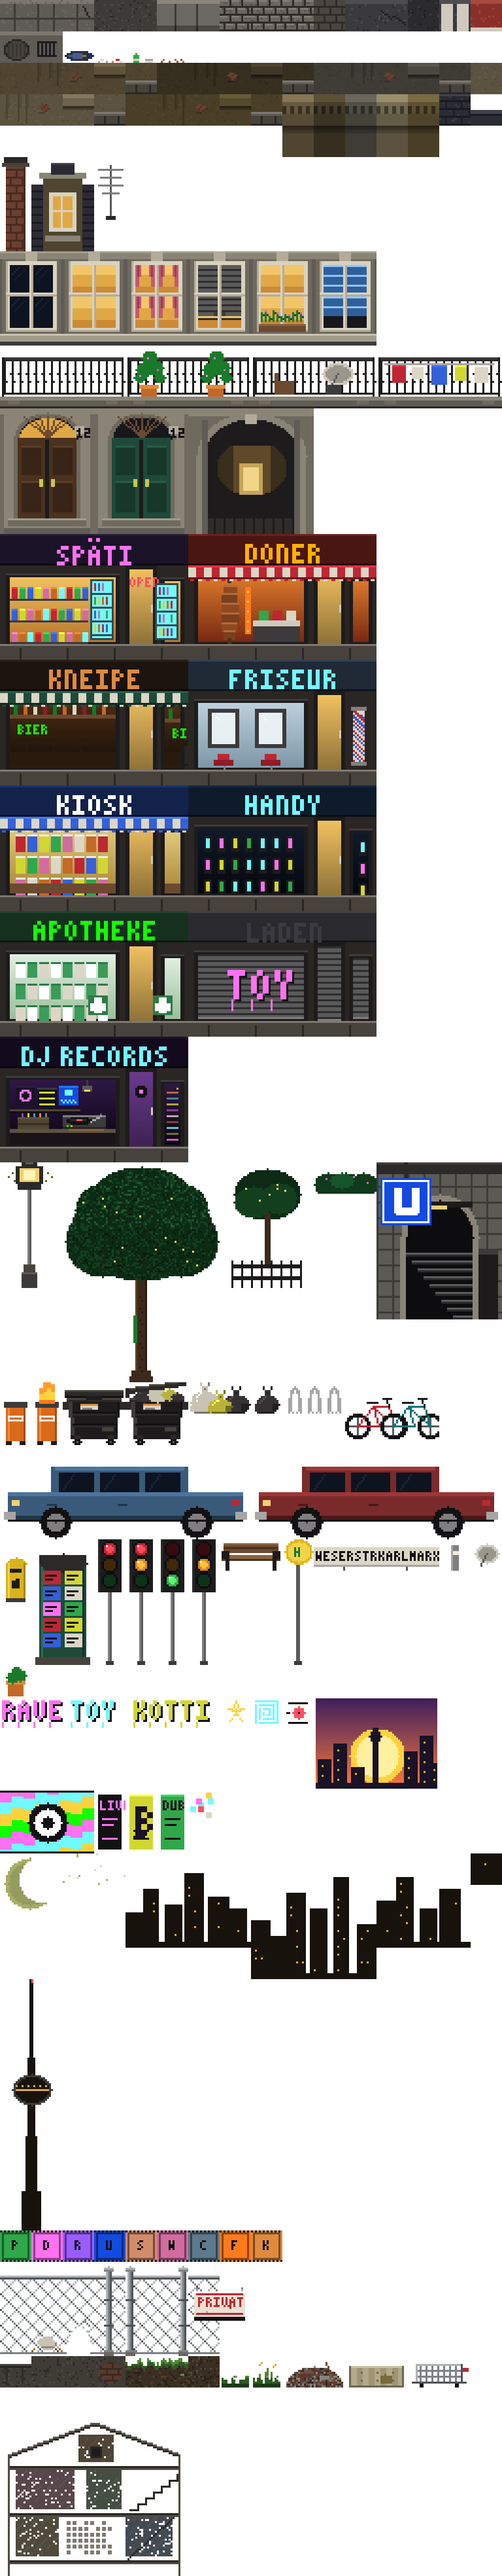
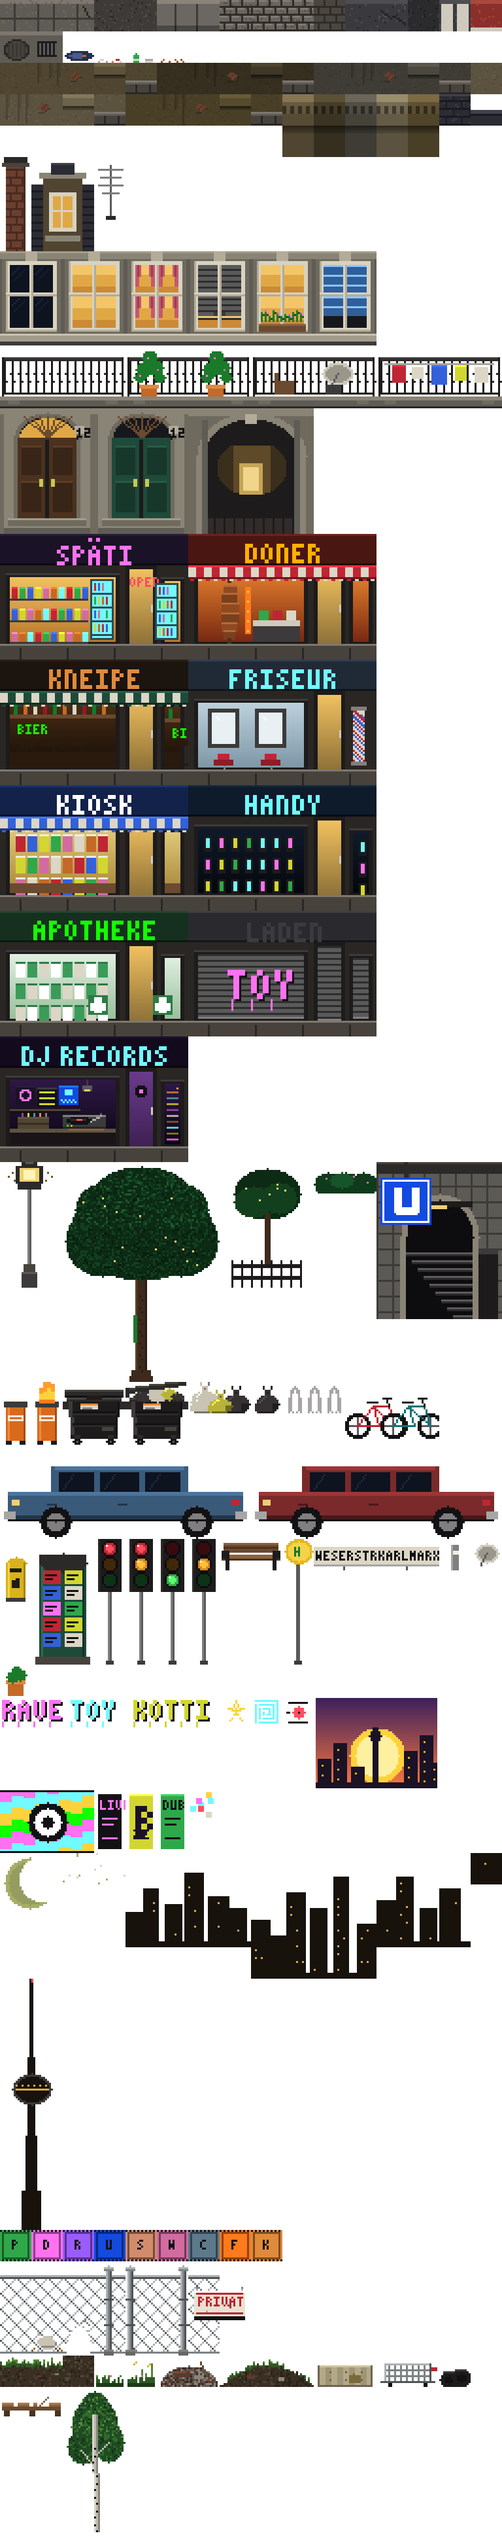
Make the vacant lot an empty lot instead of a building
Drop the firewall and the demolished-house imprint: the gap between the houses
now shows the sky and the far skyline. The lot gets an earth mound, a young
birch, tyres and a broken pallet next to the weeds, rubble, mattress and cart.

diff --git a/art/scripts/street_lot.py b/art/scripts/street_lot.py
@@ -1,4 +1,4 @@
-"""Neukölln street kit, part 4: a galvanised chain-link fence (a reusable kit) and a vacant lot (Baulücke).
+"""Neukölln street kit, part 4: a galvanised chain-link fence (a reusable kit) and an empty, rubbish-strewn lot.
 
 Fence pieces are all 3 tiles tall and stand on the pavement (bottom of the block = top of the ground row), so any
 run of them lines up: fence_end_l, then fence_mesh_* / fence_post / fence_sign in any order, then fence_end_r.
@@ -101,69 +101,13 @@ def fences(sheet):
 
 
 # -------------------------------------------------------------- vacant lot
-WALL, WALL_LO, WALL_HI = '#3f3c35', '#2f2c27', '#4b4740'     # the bare firewall at the back of the lot
 BRICK, MORTAR = '#5b3a2c', '#3a2a22'
 DIRT, DIRT_LO, DIRT_HI = '#3a2f22', '#2a2219', '#4f4130'
 WEED, WEED_HI, WEED_LO = '#2f5a24', '#4f8a32', '#1c3a16'
 
 
-def firewall(s, rng, bricks=False):
-    for y in range(16):
-        for x in range(16):
-            r = rng.random()
-            s.set(x, y, WALL_LO if r < 0.10 else WALL_HI if r < 0.16 else WALL)
-    if bricks:                                                # plaster fallen off, bricks showing through
-        for y in range(3, 14):
-            for x in range(2, 14):
-                if ((x - 8) / 6) ** 2 + ((y - 8) / 5.2) ** 2 <= 1:
-                    s.set(x, y, MORTAR if y % 3 == 0 or (x + (y // 3) * 3) % 6 == 0 else BRICK)
-
-
-def firewall_top(s, rng):
-    """The coping of the firewall: a sky-coloured gap above (transparent), a dark capping row, then wall."""
-    for y in range(5, 16):
-        for x in range(16):
-            r = rng.random()
-            s.set(x, y, WALL_LO if r < 0.10 else WALL_HI if r < 0.16 else WALL)
-    s.rect(0, 4, 16, 2, '#262525'); s.hline(0, 4, 16, '#47433c')
-    for x in (3, 11):                                         # rain streaks under the coping
-        s.vline(x, 6, 5 + x % 4, WALL_LO)
-
-
-def ghost_house(s):
-    """The imprint a demolished side wing leaves on a Berlin firewall: a pitched roofline, the floors as
-    lighter bands, scraps of wallpaper and tiles, and the zig-zag of the old staircase. 6x6 tiles."""
-    W, H = 96, 96
-    roof = lambda x: 18 + abs(x - 48) * 18 // 48             # gable peak at the middle
-    for x in range(4, W - 4):
-        s.set(x, roof(x), '#5a554c')                          # roofline scar
-        s.set(x, roof(x) + 1, '#2f2c27')
-    s.vline(4, roof(4), H - roof(4), '#4f4b43'); s.vline(W - 5, roof(W - 5), H - roof(W - 5), '#4f4b43')
-    floors = (40, 64, 88)
-    for fy in floors:                                         # where the ceilings were keyed into the wall
-        s.hline(5, fy, W - 10, '#2a2722'); s.hline(5, fy + 1, W - 10, '#4f4b43')
-    rooms = ((8, 42, 30, 20, '#57464a'), (44, 42, 18, 20, '#454e43'), (8, 66, 22, 20, '#4f4a3c'),
-             (64, 66, 24, 20, '#434a52'), (40, 24, 18, 14, '#4f4436'))
-    rng = noise(61)
-    for x0, y0, w, h, col in rooms:                           # faded wallpaper, half scraped off
-        for y in range(y0, y0 + h):
-            for x in range(x0, x0 + w):
-                if rng.random() < 0.9:
-                    pat = (x // 3 + y // 4) % 2 == 0 and (x + y) % 5 == 0
-                    s.set(x, y, shade(col, 1.15) if pat else col)
-    for y in range(68, 84, 3):                                # a bathroom: white tiles in a grid
-        for x in range(34, 56, 3):
-            if rng.random() < 0.8:
-                s.rect(x, y, 2, 2, '#7d7a72')
-    for i in range(6):                                        # the staircase climbing between the floors
-        s.line(66 + i * 4, 62 - i * 3, 70 + i * 4, 62 - i * 3, '#2a2722')
-        s.vline(70 + i * 4, 59 - i * 3, 3, '#2a2722')
-    s.line(64, 88, 88, 66, '#2a2722')
-    s.rect(46, 30, 6, 6, '#2a2722'); s.rect(47, 31, 4, 4, '#1d1b1b')   # a bricked-up hole for a stove pipe
-
-
 def lot_dirt_top(s, rng, v):
-    """Trodden earth reaching back to the firewall: top edge uneven, with grass along it."""
+    """The far edge of the lot's trodden earth: uneven, with grass along it; open sky above."""
     edge = [4 + int(2 * rng.random()) + (1 if (x + ord(v)) % 7 < 2 else 0) for x in range(16)]
     for x in range(16):
         for y in range(edge[x], 16):
@@ -232,19 +176,73 @@ def cart(s):
         s.rect(wx, 14, 2, 2, '#121114')
 
 
+def mound(s, rng):
+    """A heap of dumped earth, 3 tiles wide, grassed over on top, a bit of brick poking out."""
+    top = {}
+    for x in range(48):
+        h = 11 * (1 - ((x - 24) / 24) ** 2) + rng.random() * 1.5
+        top[x] = 16 - max(1, int(h))
+        for y in range(top[x], 16):
+            r = rng.random()
+            s.set(x, y, DIRT_LO if r < 0.14 or x > 30 and r < 0.4 else DIRT_HI if r < 0.24 else DIRT)
+    for x in range(2, 46):
+        for k in range(rng.randint(0, 3)):
+            s.set(x, top[x] - k, WEED if k < 2 else WEED_HI)
+    s.rect(14, 10, 4, 2, BRICK); s.rect(30, 11, 3, 2, '#8a847b')
+
+
+def birch(s, rng):
+    """A young birch, the first tree to grow on any Berlin waste ground: white trunk, black marks, light crown.
+    2x5 tiles; its foot is a little above the bottom so it stands in the earth of lot_dirt_top."""
+    for cx, cy, rx, ry in ((16, 20, 12, 15), (10, 30, 8, 9), (23, 28, 8, 10), (16, 9, 7, 7)):
+        s.ellipse(cx, cy, rx, ry, '#1f4a22')
+    for (x, y), col in list(s.p.items()):
+        r = rng.random()
+        if r < 0.25:
+            s.set(x, y, '#2f6a2a')
+        elif r < 0.30 and y < 26:
+            s.set(x, y, '#5a8a3a')
+        elif r < 0.36:
+            s.set(x, y, '#143418')
+    for y in range(14, 74):                                   # trunk, leaning slightly
+        x = 15 + (y - 14) // 30
+        s.set(x, y, '#d8d4c8'); s.set(x + 1, y, '#bdb8aa'); s.set(x + 2, y, '#8a867c')
+        if y % 7 in (0, 3) and y > 30:
+            s.set(x + (y % 2), y, '#121114')                  # the black bark marks
+    s.line(16, 40, 9, 32, '#bdb8aa'); s.line(17, 34, 23, 28, '#bdb8aa')
+
+
+def tyres(s):
+    """Two dumped car tyres, one leaning on the other."""
+    for cx, cy, rx in ((5, 12, 5), (11, 11, 5)):
+        s.ellipse(cx, cy, rx, 4.5, '#1d1b1b')
+        s.ellipse(cx, cy, rx - 2.5, 2, '#121114')
+        s.hline(cx - rx + 2, cy - 4, rx * 2 - 4, '#3c3a3a')
+
+
+def pallet(s):
+    """A broken wooden pallet lying in the weeds, 2x1."""
+    for x0 in (1, 9, 17, 25):
+        s.rect(x0, 8, 6, 2, '#8a6240'); s.hline(x0, 8, 6, '#a97b4f')
+    s.rect(1, 10, 30, 2, '#6b4a2f')
+    for x0 in (2, 15, 28):
+        s.rect(x0, 12, 3, 3, '#4a321f')
+    s.erase(19, 8, 4, 2)                                      # a slat snapped off
+    s.line(20, 9, 24, 5, '#8a6240')
+
+
 def vacant_lot(sheet):
     sheet.group('vacant lot')
     rng = noise(71)
-    firewall_top(sheet.add('firewall_top'), rng)
-    firewall(sheet.add('firewall_a'), rng)
-    firewall(sheet.add('firewall_b'), rng)
-    firewall(sheet.add('firewall_brick'), rng, bricks=True)
     lot_dirt_top(sheet.add('lot_dirt_top_a'), rng, 'a')
     lot_dirt_top(sheet.add('lot_dirt_top_b'), rng, 'b')
     lot_dirt(sheet.add('lot_dirt'), rng)
     weeds(sheet.add('weeds_a'), rng, False)
     weeds(sheet.add('weeds_b'), rng, True)
     rubble(sheet.add('rubble', 2, 1), rng)
+    mound(sheet.add('lot_mound', 3, 1), rng)
     mattress(sheet.add('mattress', 2, 1))
     cart(sheet.add('shopping_cart', 2, 1))
-    ghost_house(sheet.add('firewall_ghost', 6, 6))
+    tyres(sheet.add('tyres'))
+    pallet(sheet.add('pallet', 2, 1))
+    birch(sheet.add('birch', 2, 5), rng)

diff --git a/art/scripts/build_street_map.py b/art/scripts/build_street_map.py
@@ -3,7 +3,7 @@
 It is only a starting point: open art/tilesets/neukoelln_street.png in the Sprite Fusion tilemap editor,
 build your own street with the layer names below, export, and run import_map.py to replace it.
 
-Layers, bottom to top:  far (scrolls at half speed) | buildings | details | yard (things inside the vacant lot) |
+Layers, bottom to top:  far (scrolls at half speed) | buildings | details | yard (things on the empty lot) |
                         ground (collider) | props (incl. the chain-link fence) |
                         markers (hidden, spawns things) | front (drawn over the player, e.g. trees, bins)
 Marker tiles (see the 'markers' section of the tileset): P player start, D door into the Späti,
@@ -195,25 +195,17 @@ def build():
 
 
 def vacant_lot(L, x0, w, rng):
-    """A Baulücke: the bare firewall of the back house with the imprint of the demolished wing, trodden earth,
-    weeds and dumped stuff, all behind a chain-link fence along the pavement."""
+    """An empty lot between the houses: no building, open sky (the far skyline shows through), trodden earth,
+    weeds, a birch and dumped rubbish, behind a chain-link fence along the pavement."""
     for x in range(x0, x0 + w):
-        L.put('buildings', 'firewall_top', x, 3)
-        for y in range(4, GROUND):
-            L.put('buildings', rng.choice(['firewall_a', 'firewall_b']), x, y)
         L.put('details', 'lot_dirt_top_' + rng.choice('aab'), x, 11)
         L.put('details', 'lot_dirt', x, 12)
-    for dx, y in ((1, 5), (10, 4), (11, 9)):
-        L.put('buildings', 'firewall_brick', x0 + dx, y)
-    L.put('details', 'firewall_ghost', x0 + 3, 4)
-    L.put('details', 'tag_spiral', x0 + 1, 7)
-    L.put('details', 'tag_rave', x0 + 9, 8)
-    for dx, name in ((0, 'weeds_b'), (1, 'weeds_a'), (4, 'weeds_a'), (7, 'weeds_b'), (8, 'weeds_a'), (11, 'weeds_b')):
+    for dx, name in ((0, 'lot_mound'), (3, 'weeds_b'), (4, 'rubble'), (6, 'weeds_a'), (9, 'mattress'), (11, 'weeds_b')):
         L.put('yard', name, x0 + dx, 11)
-    L.put('yard', 'rubble', x0 + 2, 11)
-    L.put('yard', 'bush', x0 + 5, 11)
-    L.put('yard', 'mattress', x0 + 9, 11)
-    L.put('yard', 'shopping_cart', x0 + 5, 12)
+    L.put('yard', 'birch', x0 + 7, 7)
+    L.put('yard', 'tyres', x0 + 1, 12)
+    L.put('yard', 'shopping_cart', x0 + 3, 12)
+    L.put('yard', 'pallet', x0 + 8, 12)
     fence(L, x0, w, {2: 'fence_mesh_b', 5: 'fence_sign', 9: 'fence_mesh_torn'})
 
 

diff --git a/art/EDITOR.md b/art/EDITOR.md
@@ -24,7 +24,7 @@ Create these, bottom to top. Anything with the **collision** flag turned on beco
 | `far` | Skyline, Fernsehturm, moon, stars. Scrolls at **half speed**, so it only needs to be about half as wide as the street. |
 | `buildings` | Plaster, windows, cornices, roofs, **shopfronts** and doors. |
 | `details` | Balconies, graffiti, posters, signs, dishes. |
-| `yard` | Optional. Things standing inside a vacant lot behind a fence: `weeds_a/b`, `rubble`, `bush`, `mattress`, `shopping_cart`. |
+| `yard` | Optional. Things on an empty lot behind a fence: `weeds_a/b`, `lot_mound`, `rubble`, `birch`, `mattress`, `shopping_cart`, `tyres`, `pallet`. |
 | `ground` | Pavement, curb, road. **Collision on.** The player walks on the top edge of the first row. |
 | `props` | Lamps, bins, bikes, benches, the U-Bahn entrance, traffic lights, the chain-link fence. |
 | `markers` | Marker tiles (see below). Never drawn in the game. |
@@ -48,8 +48,9 @@ and paint it, or build it once and copy/paste it in the map.
 on rows 10-12, so it stands on the pavement. Paint `fence_end_l`, then any mix of `fence_mesh_a` (plain),
 `fence_mesh_b` (bag caught at the bottom), `fence_mesh_torn`, `fence_sign` and a `fence_post` every few tiles,
 then `fence_end_r`. The mesh tiles seamlessly. From a script: `fence(L, x, width, {offset: 'fence_sign'})` in
-`build_street_map.py`. The `vacant lot` section has the firewall (`firewall_top`, `firewall_a/b/brick`), the
-`firewall_ghost` imprint of a demolished house (6x6, `details`) and the lot's earth (`lot_dirt_top_a/b`, `lot_dirt`).
+`build_street_map.py`. The `vacant lot` section is an empty lot with nothing built on it: leave `buildings`
+empty there so the sky shows, paint the earth (`lot_dirt_top_a/b` on row 11, `lot_dirt` on row 12) in `details`,
+and put the junk and plants in `yard`.
 
 ## 3. Marker tiles
 
